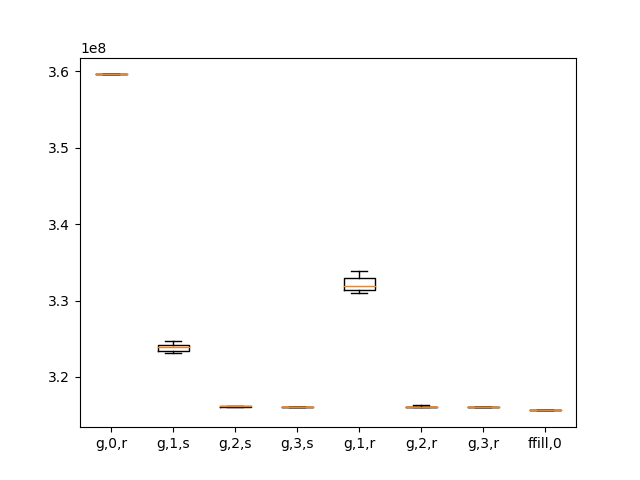
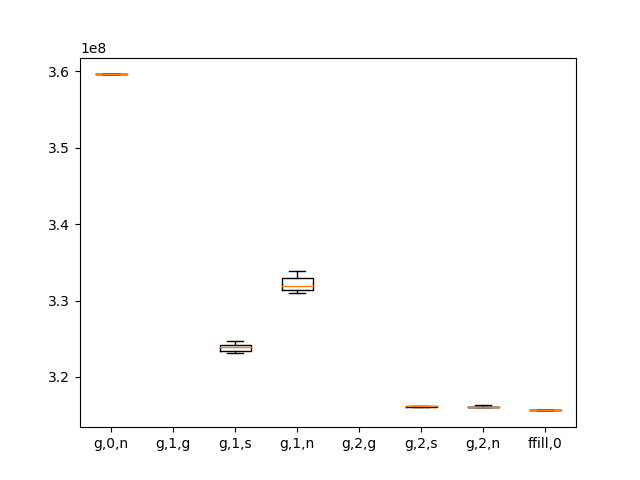
prior to july changes

diff --git a/haste/desktop_agent/benchmarking/results_analysis_single_run_splines.py b/haste/desktop_agent/benchmarking/results_analysis_single_run_splines.py
@@ -4,6 +4,14 @@ from haste.desktop_agent import golden
 from haste.desktop_agent.benchmarking.__main__ import CONFIGS
 import matplotlib.pyplot as plt
 
+# See haste storage client
+STATE_NONE = 0
+STATE_IN_QUEUE_NOT_PRE_PROCESSED = 1
+STATE_PRE_PROCESSING = 2
+STATE_IN_QUEUE_PRE_PROCESSED = 3
+STATE_POPPING = 4
+STATE_POPPED = 5
+
 # grep Queue_is_empty *.log
 from haste.desktop_agent.config import QUIT_AFTER
 import matplotlib.pyplot as plt
@@ -29,10 +37,15 @@ spline_states = []
 
 run = None
 
-run = '2019_04_29-03'
+# run = '2019_04_29-03'
+run = '11_fri_am'
 
 
-stream_id = 'agent_log_2019_04_29__10_29_35_trash.log.log.log.log'#'2019_03_29__11_18_21_trash'
+# plt.style.use('grayscale')
+
+
+# stream_id = 'agent_log_2019_04_29__10_29_35_trash.log.log.log.log'#'2019_03_29__11_18_21_trash'
+stream_id = 'agent_log_2019_03_29__11_18_21_trash'#'2019_03_29__11_18_21_trash'
 
 stream_id = stream_id.replace('agent_log_', '')
 stream_id = stream_id.replace('.log', '')
@@ -92,25 +105,39 @@ golden_compressibility = (golden.csv_results['input_file_size_bytes'] - golden.c
                              'duration_total']
 golden_compressibility = golden_compressibility[:QUIT_AFTER]
 golden_compressibility = np.array(golden_compressibility)
+
+
 golden_compressibility_tiled = np.tile(golden_compressibility, (4, 1))
 golden_compressibility_tiled = np.transpose(golden_compressibility_tiled)
 
 fig, ax2 = plt.subplots()
 
-ax2.imshow(golden_compressibility_tiled, interpolation='nearest', aspect='auto', zorder=3)
-ax2.legend()
+ax2.imshow(golden_compressibility_tiled, interpolation='nearest', aspect='auto', zorder=3, alpha=0.3)
+# ax2.legend()
+
+
 
 ax = ax2.twiny()
-ax.plot(x_new_file_times, y_new_file_indices, color='r', zorder=2, label='new_files')
-ax.scatter(x_send_times, y_send_indices, color='m', zorder=2, label='send')
-ax.scatter(x_preprocess_times, y_preprocess_indices, color='w', zorder=2, label='prepcess')
-ax.scatter(x_preprocess_search_times, y_preprocess_search_indices, color='y', zorder=2, label='prepcess_search')
+ax.plot(x_new_file_times, y_new_file_indices, zorder=2, label='new files')
+ax.scatter(x_send_times, y_send_indices, marker='x', zorder=2, label='upload')
+ax.scatter(x_preprocess_times, y_preprocess_indices, marker='o', zorder=2, label='process (prio)')
+ax.scatter(x_preprocess_search_times, y_preprocess_search_indices, marker='v', zorder=2, label='process (search)')
+
+
+ax2.set_ylabel('Document Index')
+ax.set_xlabel('Timestamp (seconds)')
+ax2.set_xticks([])
+
 ax.legend()
+
+
 
 plt.show()
 fig.savefig(f'figures/{stream_id}.0.overall.png')
 
 # ---
+
+
 
 capacity = QUIT_AFTER
 index = np.arange(0, capacity)
@@ -151,26 +178,26 @@ def fit_spline(known_scores):
 plt.clf()
 plt.figure(figsize=(7, 3.5), dpi=500)
 
-quit()
+# quit()
 
 if True:
     X2 = np.arange(0, capacity, 1)
     Y2 = golden_compressibility
-    plt.plot(X2, Y2, color=(1, 0, 0, 0.5))
+    # plt.plot(X2, Y2, color=(1, 0, 0, 0.5))
 
     for i, scores in enumerate(spline_scores[::5]):
         f, min, max = fit_spline(scores)
         if f is not None:
             num_steps = int((max - min) / capacity * 1000)
             X = np.linspace(min, max, num_steps, endpoint=True)
-            plt.plot(X, f(X), color=(0, 0.1, 1, 0.2 + (i / capacity)**5 * 0.3))
+            # plt.plot(X, f(X), color=(0, 0.1, 1, 0.2 + (i / capacity)**5 * 0.3),)
     if True:
         scores = spline_scores[-1]
         f, min, max = fit_spline(scores)
         if f is not None:
             num_steps = int((max - min) / capacity * 1000)
             X = np.linspace(min, max, num_steps, endpoint=True)
-            plt.plot(X, f(X), color=(0, 1, 0))
+            plt.plot(X, f(X))#, color=(0, 1, 0))
 
 
 X_files_that_were_preprocessed = []
@@ -179,12 +206,12 @@ Y_files_that_were_preprocessed = []
 for spline_state in spline_states:
     for i in range(len(spline_state)):
         state = spline_state[i]
-        if state == 2 or state == 3:
+        if state == STATE_PRE_PROCESSING or state == STATE_IN_QUEUE_PRE_PROCESSED:
             if i not in X_files_that_were_preprocessed:
                 X_files_that_were_preprocessed.append(i)
                 Y_files_that_were_preprocessed.append(golden_compressibility[i])
 
-plt.scatter(X_files_that_were_preprocessed, Y_files_that_were_preprocessed)
+plt.scatter(X_files_that_were_preprocessed, Y_files_that_were_preprocessed, marker='o',alpha=0.7, label='processed')
 
 X_files_that_were_not_preprocessed = []
 Y_files_that_were_not_preprocessed = []
@@ -194,7 +221,13 @@ for i in range(len(spline_states[0])):
         X_files_that_were_not_preprocessed.append(i)
         Y_files_that_were_not_preprocessed.append(golden_compressibility[i])
 
-plt.scatter(X_files_that_were_not_preprocessed, Y_files_that_were_not_preprocessed)
 
+ax = plt.gca()
+ax.yaxis.grid(alpha=0.3) # horizontal lines
+plt.scatter(X_files_that_were_not_preprocessed, Y_files_that_were_not_preprocessed, marker='x',alpha=0.7, label='unprocessed')
+plt.legend()
+plt.ylabel('ΔBytes/Time Taken (bytes/secs)')
+plt.xlabel('Image Index')
+plt.tight_layout()
 
 plt.savefig(f'figures/{stream_id}.1.splines-blended.png')

diff --git a/haste/desktop_agent/benchmarking/results_analysis_benchmark.py b/haste/desktop_agent/benchmarking/results_analysis_benchmark.py
@@ -3,9 +3,16 @@ import pandas as pd
 from haste.desktop_agent.benchmarking.__main__ import CONFIGS
 import matplotlib.pyplot as plt
 
-from haste.desktop_agent.config import MODE_NATURAL, MODE_GOLDEN, MODE_SPLINES
+# from haste.desktop_agent.config import MODE_NATURAL, MODE_GOLDEN, MODE_SPLINES
 
-RUN = '2019_05_08-01'
+# now in hsc
+MODE_SPLINES = 0
+MODE_NATURAL = 1
+MODE_GOLDEN = 2
+
+
+# RUN = '2019_05_08-01'
+RUN = '11_fri_am'
 
 # grep Queue_is_empty *.log > grepped.txt
 
@@ -53,19 +60,25 @@ boxes = [
     df['time_taken'][
         (df['count_preproc_threads'] == 0) & (df['mode'] == MODE_NATURAL) & (df['source_dir'] == 'greyscale')].values,
 
-    df['time_taken'][
-        (df['count_preproc_threads'] == 1) & (df['mode'] == MODE_GOLDEN) & (df['source_dir'] == 'greyscale')].values,
+    # df['time_taken'][
+    #     (df['count_preproc_threads'] == 1) & (df['mode'] == MODE_GOLDEN) & (df['source_dir'] == 'greyscale')].values,
     df['time_taken'][
         (df['count_preproc_threads'] == 1) & (df['mode'] == MODE_SPLINES) & (df['source_dir'] == 'greyscale')].values,
+    df['time_taken'][
+        (df['count_preproc_threads'] == 2) & (df['mode'] == MODE_SPLINES) & (df['source_dir'] == 'greyscale')].values,
+    df['time_taken'][
+        (df['count_preproc_threads'] == 3) & (df['mode'] == MODE_SPLINES) & (df['source_dir'] == 'greyscale')].values,
+
     df['time_taken'][
         (df['count_preproc_threads'] == 1) & (df['mode'] == MODE_NATURAL) & (df['source_dir'] == 'greyscale')].values,
 
     df['time_taken'][
-        (df['count_preproc_threads'] == 2) & (df['mode'] == MODE_GOLDEN) & (df['source_dir'] == 'greyscale')].values,
-    df['time_taken'][
-        (df['count_preproc_threads'] == 2) & (df['mode'] == MODE_SPLINES) & (df['source_dir'] == 'greyscale')].values,
-    df['time_taken'][
         (df['count_preproc_threads'] == 2) & (df['mode'] == MODE_NATURAL) & (df['source_dir'] == 'greyscale')].values,
+
+    # df['time_taken'][
+    #     (df['count_preproc_threads'] == 2) & (df['mode'] == MODE_GOLDEN) & (df['source_dir'] == 'greyscale')].values,
+    df['time_taken'][
+        (df['count_preproc_threads'] == 3) & (df['mode'] == MODE_NATURAL) & (df['source_dir'] == 'greyscale')].values,
 
     # df['time_taken'][(df['count_preproc_threads'] == 3) & (df['mode'] == MODE_GOLDEN) & (df['source_dir'] == 'greyscale')],
     # df['time_taken'][(df['count_preproc_threads'] == 3) & (df['mode'] == MODE_SPLINES) & (df['source_dir'] == 'greyscale')],
@@ -76,22 +89,34 @@ boxes = [
 
 plt.boxplot(boxes,
             labels=[
-        'g,0,n',
+        '0,n',
 
-        'g,1,g',
-        'g,1,s',
-        'g,1,n',
+        # 'g,1,g',
+        '1,s',
+        '2,s',
+        '3,s',
 
-        'g,2,g',
-        'g,2,s',
-        'g,2,n',
+        '1,r',
+
+        # 'g,2,g',
+        '2,r',
 
         # 'g,3,g',
-        # 'g,3,s',
-        # 'g,3,n',
+        # '3,s',
+        '3,r',
 
         'ffill,0',
     ], whis='range')
+
+
+# for cons with oliver
+ax = plt.axes()
+ax.yaxis.grid(alpha=0.3) # horizontal lines
+
+plt.ylabel('End-to-end latency (seconds)')
+plt.xlabel('Configuration')
+
+
 
 plt.savefig(f'figures/{RUN}.0.boxwhisker.time_taken.png')
 
@@ -139,6 +164,8 @@ plt.boxplot([
     ],
     whis='range'
 )
+
+
 plt.savefig(f'figures/{RUN}.0.boxwhisker.bytes_sent.png')
 
 plt.clf()
@@ -176,7 +203,15 @@ plt.boxplot([
     ],
     whis='range'
 )
+
+
+
+
 plt.savefig(f'figures/{RUN}.0.boxwhisker.mean_upload_speed.png')
+
+
+
+
 
 plt.clf()
 plt.plot(df.index, df['time_taken'])

diff --git a/haste/desktop_agent/benchmarking/__main__.py b/haste/desktop_agent/benchmarking/__main__.py
@@ -11,16 +11,17 @@ CONFIGS = [
     (0, '/Users/benblamey/projects/haste/images/2019_02_04__11_34_55_vironova/all/gen/greyscale/', haste.desktop_agent.config.MODE_NATURAL),
 
     (1, '/Users/benblamey/projects/haste/images/2019_02_04__11_34_55_vironova/all/gen/greyscale/', haste.desktop_agent.config.MODE_SPLINES),
-    (1, '/Users/benblamey/projects/haste/images/2019_02_04__11_34_55_vironova/all/gen/greyscale/', haste.desktop_agent.config.MODE_NATURAL),
-    (1, '/Users/benblamey/projects/haste/images/2019_02_04__11_34_55_vironova/all/gen/greyscale/', haste.desktop_agent.config.MODE_GOLDEN),
+    # (1, '/Users/benblamey/projects/haste/images/2019_02_04__11_34_55_vironova/all/gen/greyscale/', haste.desktop_agent.config.MODE_GOLDEN),
 
     (2, '/Users/benblamey/projects/haste/images/2019_02_04__11_34_55_vironova/all/gen/greyscale/', haste.desktop_agent.config.MODE_SPLINES),
+    (3, '/Users/benblamey/projects/haste/images/2019_02_04__11_34_55_vironova/all/gen/greyscale/', haste.desktop_agent.config.MODE_SPLINES),
+
+    (1, '/Users/benblamey/projects/haste/images/2019_02_04__11_34_55_vironova/all/gen/greyscale/', haste.desktop_agent.config.MODE_NATURAL),
     (2, '/Users/benblamey/projects/haste/images/2019_02_04__11_34_55_vironova/all/gen/greyscale/', haste.desktop_agent.config.MODE_NATURAL),
-    (2, '/Users/benblamey/projects/haste/images/2019_02_04__11_34_55_vironova/all/gen/greyscale/', haste.desktop_agent.config.MODE_GOLDEN),
+    # (2, '/Users/benblamey/projects/haste/images/2019_02_04__11_34_55_vironova/all/gen/greyscale/', haste.desktop_agent.config.MODE_GOLDEN),
 
     # Don't use more than 3 threads, there are only 2 cores.
-    # (3, '/Users/benblamey/projects/haste/images/2019_02_04__11_34_55_vironova/all/gen/greyscale/', haste.desktop_agent.config.MODE_SPLINES),
-    # (3, '/Users/benblamey/projects/haste/images/2019_02_04__11_34_55_vironova/all/gen/greyscale/', haste.desktop_agent.config.MODE_NATURAL),
+    (3, '/Users/benblamey/projects/haste/images/2019_02_04__11_34_55_vironova/all/gen/greyscale/', haste.desktop_agent.config.MODE_NATURAL),
     # (3, '/Users/benblamey/projects/haste/images/2019_02_04__11_34_55_vironova/all/gen/greyscale/', haste.desktop_agent.config.MODE_GOLDEN),
 
     (0, '/Users/benblamey/projects/haste/images/2019_02_04__11_34_55_vironova/all/gen/ffill/', haste.desktop_agent.config.MODE_NATURAL),

diff --git a/haste/desktop_agent/golden.py b/haste/desktop_agent/golden.py
@@ -3,8 +3,10 @@ import time
 import pandas as pd
 
 csv_results = pd.read_csv(
-    # '/Users/benblamey/projects/haste/vironova-image-compression/results/scanlines-viron_2019_02_04__11_34_55.csv',
-    '/Users/benblamey/projects/haste/vironova-image-compression/results/thres-viron_2019_02_04__11_34_55.csv',
+    #'/Users/benblamey/projects/haste/vironova-image-compression/results/scanlines-viron_2019_02_04__11_34_55.csv',
+    #'/Users/benblamey/projects/haste/vironova-image-compression/results/thres-viron_2019_02_04__11_34_55.csv',
+    # '/Users/benblamey/projects/haste/vironova-image-compression/results/dark-np.csv',
+    '/Users/benblamey/projects/haste/vironova-image-compression/results/old--viron_2019_02_04__11_34_55.csv',
     header=None,
     names=[
         'filename',
@@ -13,7 +15,8 @@ csv_results = pd.read_csv(
         'duration_total',
         'input_file_size_bytes',
         'output_file_size_bytes',
-    ])
+    ],
+    skiprows=1)
 
 
 def get_golden_prio_for_filename(filename):

diff --git a/haste/desktop_agent/config.py b/haste/desktop_agent/config.py
@@ -3,6 +3,10 @@ LOGGING_FORMAT_DATE = '%Y-%m-%d %H:%M:%S.%d3'
 LOGGING_FORMAT_AGENT = '%(asctime)s - AGENT - %(threadName)s - %(levelname)s - %(message)s'
 
 
+MODE_SPLINES = 0
+MODE_NATURAL = 1
+MODE_GOLDEN = 2
+
 
 
 FAKE_UPLOAD = False
